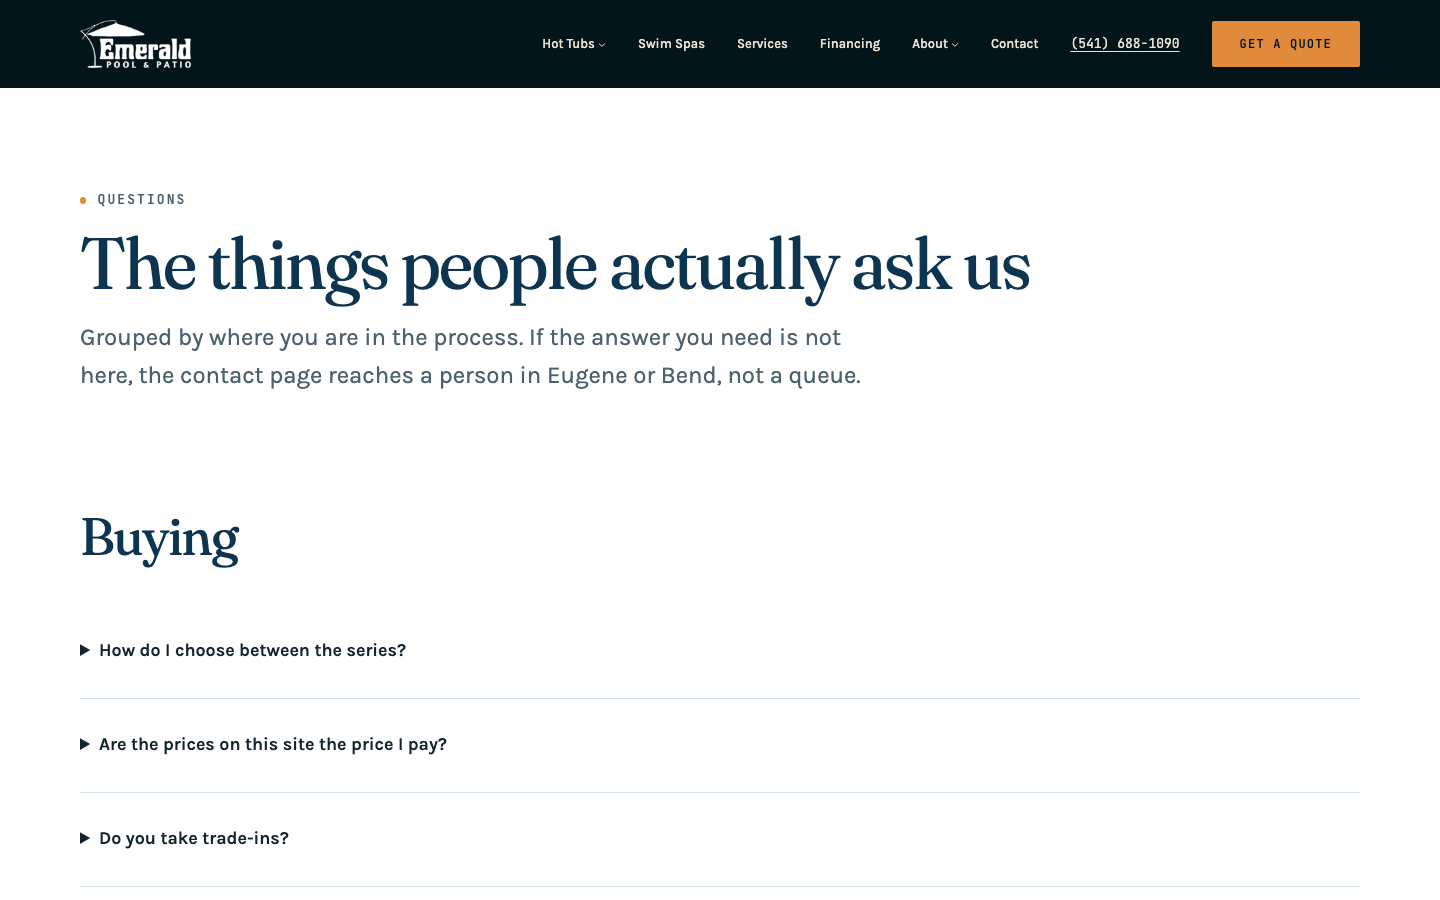
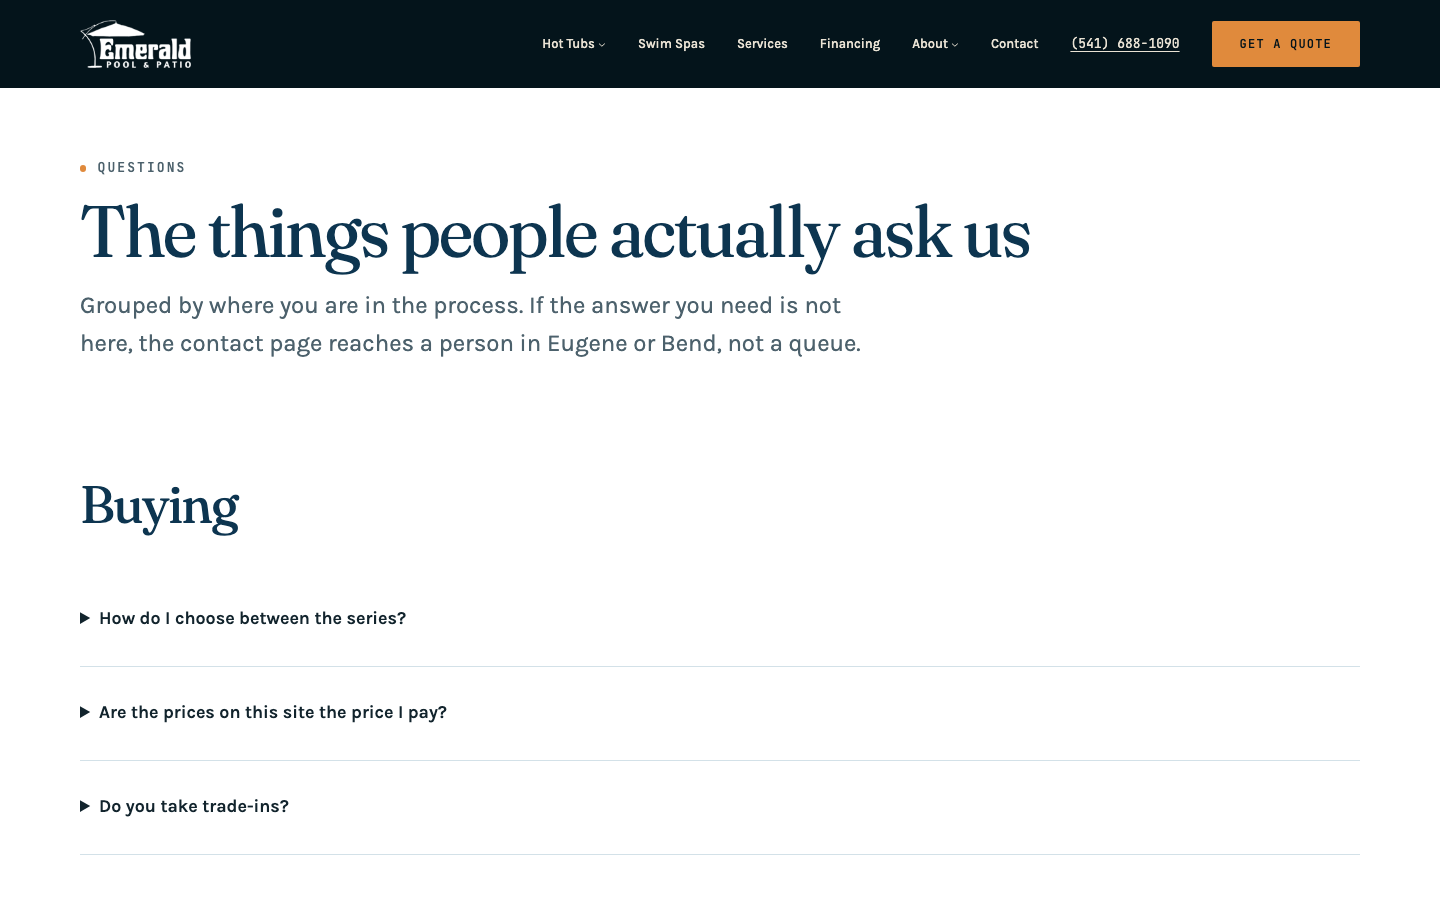
fix(hero): clear the pale band and keep faces out from under the copy
Three defects, all visible in the curated 1440 and 2560 captures.

The header is fixed, so it leaves the flow, and core's rule zeroing the block
gap on the first site block landed on the header instead of on main. The 32px
gap that survived pushed every hero down and showed as a pale band of page
ground across the top of the viewport, read through the header's scrim. Zeroing
it also puts a full-height hero back at y=0.

With the band gone a short hero whose copy fills it started under the logo, so
the hero's own top padding now clears the published header height.

Both hero photographs are 3:2, and every desktop hero box is wider than that, so
cover crops them vertically and the focal point cannot pan sideways at all: the
faces sat under the headline and no focal value could move them. Home and hot
tubs now lead on photographs composed right of centre -- the roof terrace couple
and the autumn soak -- with focal points set for the phone crop, which is the one
width where there is horizontal slack.

diff --git a/wp-content/plugins/zngiron-blocks/build/blocks/hero/style-index.css b/wp-content/plugins/zngiron-blocks/build/blocks/hero/style-index.css
@@ -1,1 +1,1 @@
-.z-hero{--z-hero-height:75svh;align-items:flex-end;color:var(--z-on-dark,var(--wp--preset--color--base,inherit));display:flex;isolation:isolate;min-height:calc(var(--z-hero-height) - var(--wp-admin--admin-bar--height, 0px));padding:var(--z-space-l,var(--wp--preset--spacing--50,3rem));position:relative}.z-hero.is-height-full{--z-hero-height:100svh}.z-hero.is-height-short{--z-hero-height:50svh}.z-hero__frame,.z-hero__frame .z-frame{aspect-ratio:auto;height:100%;inset:0;position:absolute;z-index:-2}.z-hero__scrim{background:linear-gradient(to top right,var(--z-scrim,rgba(0,0,0,.7)),transparent 65%);inset:0;position:absolute;z-index:-1}.z-hero__copy{display:flex;flex-direction:column;gap:var(--z-space-s,var(--wp--preset--spacing--30,1rem));max-width:60ch}.z-hero__heading{margin:0;text-wrap:balance}.z-hero__text{margin:0;max-width:55ch}.z-hero__meta{font-family:var(--z-font-mono,var(--wp--preset--font-family--mono,monospace));font-size:var(--z-size-small,var(--wp--preset--font-size--small,.875rem));margin:0}
+.z-hero{--z-hero-height:75svh;align-items:flex-end;color:var(--z-on-dark,var(--wp--preset--color--base,inherit));display:flex;isolation:isolate;min-height:calc(var(--z-hero-height) - var(--wp-admin--admin-bar--height, 0px));padding:var(--z-space-l,var(--wp--preset--spacing--50,3rem));padding-block-start:calc(var(--z-header-h, 5.5rem) + var(--z-space-s, var(--wp--preset--spacing--30, 1rem)));position:relative}.z-hero.is-height-full{--z-hero-height:100svh}.z-hero.is-height-short{--z-hero-height:50svh}.z-hero__frame,.z-hero__frame .z-frame{aspect-ratio:auto;height:100%;inset:0;position:absolute;z-index:-2}.z-hero__scrim{background:linear-gradient(to top right,var(--z-scrim,rgba(0,0,0,.7)),transparent 65%);inset:0;position:absolute;z-index:-1}.z-hero__copy{display:flex;flex-direction:column;gap:var(--z-space-s,var(--wp--preset--spacing--30,1rem));max-width:60ch}.z-hero__heading{margin:0;text-wrap:balance}.z-hero__text{margin:0;max-width:55ch}.z-hero__meta{font-family:var(--z-font-mono,var(--wp--preset--font-family--mono,monospace));font-size:var(--z-size-small,var(--wp--preset--font-size--small,.875rem));margin:0}

diff --git a/wp-content/plugins/zngiron-blocks/build/blocks/hero/style-index-rtl.css b/wp-content/plugins/zngiron-blocks/build/blocks/hero/style-index-rtl.css
@@ -1,1 +1,1 @@
-.z-hero{--z-hero-height:75svh;align-items:flex-end;color:var(--z-on-dark,var(--wp--preset--color--base,inherit));display:flex;isolation:isolate;min-height:calc(var(--z-hero-height) - var(--wp-admin--admin-bar--height, 0px));padding:var(--z-space-l,var(--wp--preset--spacing--50,3rem));position:relative}.z-hero.is-height-full{--z-hero-height:100svh}.z-hero.is-height-short{--z-hero-height:50svh}.z-hero__frame,.z-hero__frame .z-frame{aspect-ratio:auto;height:100%;inset:0;position:absolute;z-index:-2}.z-hero__scrim{background:linear-gradient(to top left,var(--z-scrim,rgba(0,0,0,.7)),transparent 65%);inset:0;position:absolute;z-index:-1}.z-hero__copy{display:flex;flex-direction:column;gap:var(--z-space-s,var(--wp--preset--spacing--30,1rem));max-width:60ch}.z-hero__heading{margin:0;text-wrap:balance}.z-hero__text{margin:0;max-width:55ch}.z-hero__meta{font-family:var(--z-font-mono,var(--wp--preset--font-family--mono,monospace));font-size:var(--z-size-small,var(--wp--preset--font-size--small,.875rem));margin:0}
+.z-hero{--z-hero-height:75svh;align-items:flex-end;color:var(--z-on-dark,var(--wp--preset--color--base,inherit));display:flex;isolation:isolate;min-height:calc(var(--z-hero-height) - var(--wp-admin--admin-bar--height, 0px));padding:var(--z-space-l,var(--wp--preset--spacing--50,3rem));padding-block-start:calc(var(--z-header-h, 5.5rem) + var(--z-space-s, var(--wp--preset--spacing--30, 1rem)));position:relative}.z-hero.is-height-full{--z-hero-height:100svh}.z-hero.is-height-short{--z-hero-height:50svh}.z-hero__frame,.z-hero__frame .z-frame{aspect-ratio:auto;height:100%;inset:0;position:absolute;z-index:-2}.z-hero__scrim{background:linear-gradient(to top left,var(--z-scrim,rgba(0,0,0,.7)),transparent 65%);inset:0;position:absolute;z-index:-1}.z-hero__copy{display:flex;flex-direction:column;gap:var(--z-space-s,var(--wp--preset--spacing--30,1rem));max-width:60ch}.z-hero__heading{margin:0;text-wrap:balance}.z-hero__text{margin:0;max-width:55ch}.z-hero__meta{font-family:var(--z-font-mono,var(--wp--preset--font-family--mono,monospace));font-size:var(--z-size-small,var(--wp--preset--font-size--small,.875rem));margin:0}

diff --git a/seed/content/home.html b/seed/content/home.html
@@ -1,4 +1,4 @@
-<!-- wp:zngiron/hero {"eyebrow":"Since 1955","heading":"Warm water, two showrooms, one long habit of doing it properly.","text":"Hot tubs and swim spas chosen with you, delivered by our own crew and serviced by our own technicians — in Eugene and Bend.","meta":"Eugene · Mon–Sat 9–6  ·  Bend · Mon–Fri 9–6, Sat 9–5","height":"full","buttons":[{"text":"See the range","url":"/hot-tubs/","style":"primary"},{"text":"Book a wet test","url":"/contact/","style":"secondary"}],"frame":{"mediaId":{{MEDIA_ID:hero-backyard}},"alt":"A lit back yard with a hot tub and patio furniture at dusk","ratio":"21:9","fit":"cover","focalPoint":{"x":0.62,"y":0.5}},"align":"full"} /-->
+<!-- wp:zngiron/hero {"eyebrow":"Since 1955","heading":"Warm water, two showrooms, one long habit of doing it properly.","text":"Hot tubs and swim spas chosen with you, delivered by our own crew and serviced by our own technicians — in Eugene and Bend.","meta":"Eugene · Mon–Sat 9–6  ·  Bend · Mon–Fri 9–6, Sat 9–5","height":"full","buttons":[{"text":"See the range","url":"/hot-tubs/","style":"primary"},{"text":"Book a wet test","url":"/contact/","style":"secondary"}],"frame":{"mediaId":{{MEDIA_ID:hero-terrace}},"alt":"A couple talking in a spa on a roof terrace at night, city lights behind them","ratio":"21:9","fit":"cover","focalPoint":{"x":0.35,"y":0.5}},"align":"full"} /-->
 
 <!-- wp:zngiron/marquee {"text":"Delivery · Service · Water care · Parts counter · Trade-in · Wet tests · Eugene &amp; Bend","speed":45,"align":"full","backgroundColor":"abyss","textColor":"sand","style":{"spacing":{"padding":{"top":"var:preset|spacing|20","bottom":"var:preset|spacing|20"}}}} /-->
 

diff --git a/seed/content/hot-tubs.html b/seed/content/hot-tubs.html
@@ -1,4 +1,4 @@
-<!-- wp:zngiron/hero {"eyebrow":"Hot tubs","heading":"Six to nine seats, built for an Oregon winter","text":"Every model on this page is insulated for a wet, cold winter, delivered by our own crew and serviced by our own technicians.","meta":"7 models wet-tested  ·  Eugene · Mon–Sat 9–6  ·  Bend · Mon–Fri 9–6, Sat 9–5","height":"short","buttons":[{"text":"Book a wet test","url":"/contact/","style":"primary"},{"text":"See financing","url":"/financing/","style":"secondary"}],"frame":{"mediaId":{{MEDIA_ID:hero-hot-tubs}},"alt":"A woman leaning on the edge of a steaming hot tub in a back yard","ratio":"21:9","fit":"cover","focalPoint":{"x":0.56,"y":0.66}},"align":"full"} /-->
+<!-- wp:zngiron/hero {"eyebrow":"Hot tubs","heading":"Six to nine seats, built for an Oregon winter","text":"Every model on this page is insulated for a wet, cold winter, delivered by our own crew and serviced by our own technicians.","meta":"7 models wet-tested  ·  Eugene · Mon–Sat 9–6  ·  Bend · Mon–Fri 9–6, Sat 9–5","height":"short","buttons":[{"text":"Book a wet test","url":"/contact/","style":"primary"},{"text":"See financing","url":"/financing/","style":"secondary"}],"frame":{"mediaId":{{MEDIA_ID:hero-hot-tubs}},"alt":"A woman alone in a steaming spa, bare autumn trees behind her","ratio":"21:9","fit":"cover","focalPoint":{"x":0.3,"y":0.5}},"align":"full"} /-->
 
 <!-- wp:group {"className":"z-section z-night","align":"full","layout":{"type":"constrained"}} -->
 <div class="wp-block-group alignfull z-section z-night"><!-- wp:group {"className":"z-lede z-reveal","align":"wide","layout":{"type":"default"}} -->

diff --git a/wp-content/plugins/zngiron-blocks/src/blocks/hero/style.scss b/wp-content/plugins/zngiron-blocks/src/blocks/hero/style.scss
@@ -13,6 +13,13 @@
   align-items: flex-end;
   min-height: calc(var(--z-hero-height) - var(--wp-admin--admin-bar--height, 0px));
   padding: var(--z-space-l, var(--wp--preset--spacing--50, 3rem));
+
+  /* The header floats over the hero, so the hero's own top padding has to
+     clear it. A full-height hero bottom-aligns its copy and never notices; a
+     short one whose copy fills it would otherwise start under the logo. */
+  padding-block-start: calc(
+    var(--z-header-h, 5.5rem) + var(--z-space-s, var(--wp--preset--spacing--30, 1rem))
+  );
   color: var(--z-on-dark, var(--wp--preset--color--base, inherit));
   isolation: isolate;
 }

diff --git a/wp-content/themes/zngiron-base/assets/css/layout.css b/wp-content/themes/zngiron-base/assets/css/layout.css
@@ -182,6 +182,14 @@
 /* The header floats, so the page normally has to clear it. A page that opens on
    a Hero does not: the Hero runs under the header, and its height is the
    viewport, not the viewport minus a header. */
+/* The header is fixed, so it is out of flow and core's rule that zeroes the
+   block gap on the first site block lands on the header instead of on main.
+   The gap that survived showed as a pale band of page ground across the top of
+   every hero, read through the header's scrim. */
+.wp-site-blocks > .z-main {
+  margin-block-start: 0;
+}
+
 .z-main {
   padding-block-start: var(--z-header-h);
 }

diff --git a/seed/php/content.php b/seed/php/content.php
@@ -215,7 +215,7 @@ $pages = array(
 		'slug'     => 'home',
 		'title'    => 'Home',
 		'file'     => 'home.html',
-		'media'    => 'hero-backyard',
+		'media'    => 'hero-terrace',
 		'order'    => 1,
 	),
 	array(
@@ -364,7 +364,7 @@ $posts = array(
 		'slug'    => 'when-to-buy-a-hot-tub',
 		'title'   => 'When is the best time to buy a hot tub?',
 		'excerpt' => 'Every season has an argument for it. Here is what actually changes the price, and what only changes the wait.',
-		'media'   => 'hero-backyard',
+		'media'   => 'hero-terrace',
 		'date'    => '-45 days',
 		'cat'     => 'Buying guides',
 	),

diff --git a/wp-content/plugins/zngiron-blocks/build/blocks/hero/index.asset.php b/wp-content/plugins/zngiron-blocks/build/blocks/hero/index.asset.php
@@ -1,1 +1,1 @@
-<?php return array('dependencies' => array('react-jsx-runtime', 'wp-block-editor', 'wp-blocks', 'wp-components', 'wp-i18n'), 'version' => 'a6305465f92012728182');
+<?php return array('dependencies' => array('react-jsx-runtime', 'wp-block-editor', 'wp-blocks', 'wp-components', 'wp-i18n'), 'version' => '15a73358616f47f9a7ae');
